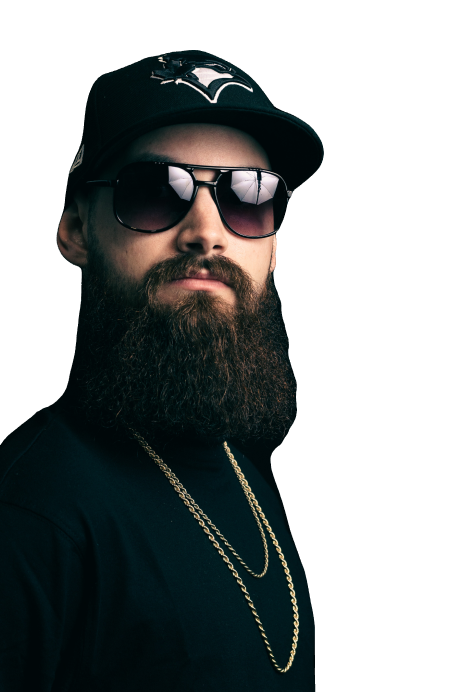
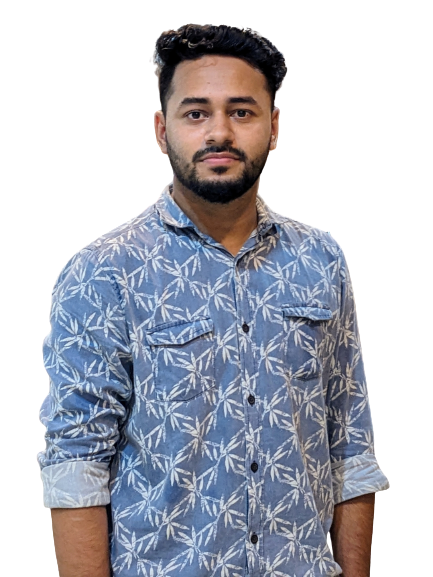
about section is done

diff --git a/src/components/About.js b/src/components/About.js
@@ -1,7 +1,76 @@
 import React from 'react';
+// count up
+import CountUp from 'react-countup';
+// intersection obserber hook
+import { useInView } from 'react-intersection-observer';
+// motion
+import { motion } from 'framer-motion';
+// varient
+import { fadeIn } from '../variants';
 
 const About = () => {
-  return <div className='section' id='about'>About</div>;
+  const [ref, inView] = useInView({
+    threshold: 0.5,
+  });
+  return <section className='section' id='about'>
+    <div className="container mx-auto">
+      <div className='flex flex-col gap-y-10 lg:flex-row lg:items-center lg:gap-x-20 lg:gap-y-0 h-screen'>
+        {/* img */}
+        <motion.div
+          variants={fadeIn('right', 0.3)}
+          initial='hidden'
+          whileInView={'show'}
+          viewport={{ once: false, amount: 0.3 }}
+          className='flex-1 bg-about  bg-contain bg-no-repeat h-[640px] mix-blend-lighten bg-top '></motion.div>
+        <motion.div
+        variants={fadeIn('left', 0.5)}
+        initial='hidden'
+        whileInView={'show'}
+        viewport={{ once: false, amount: 0.3 }}
+        className='flex-1'>
+          <h2 className='h2 text-accent'>About me</h2>
+          <h3 className='h3 mb-4'>
+            I'm a Freelancer Front-end developer with over 1 years of experience.
+
+          </h3>
+          <div className='flex gap-x-6 lg:gap-x-10 mb-12'>
+            <div>
+              <div className='text-[40px] font-tertiary text-gradient mb-2'>
+                <CountUp start={0} end={2} duration={4} />
+              </div>
+              <div className='font-primary text-sm tracking-[2px]'>
+                Years of <br />
+                Experience
+              </div>
+            </div>
+            <div>
+              <div className='text-[40px] font-tertiary text-gradient mb-2'>
+                <CountUp start={0} end={27} duration={4} />
+              </div>
+              <div className='font-primary text-sm tracking-[2px]'>
+                Projects <br />
+                Complete
+              </div>
+            </div>
+            <div>
+              <div className='text-[40px] font-tertiary text-gradient mb-2'>
+                <CountUp start={0} end={12} duration={4} />
+              </div>
+              <div className='font-primary text-sm tracking-[2px]'>
+                Language &<br />
+                Frameworks
+              </div>
+            </div>
+          </div>
+          <div className='flex gap-x-8 items-center'>
+            <button className='btn btn-lg'>Contact Me</button>
+            <a href="#" className='text-gradient btn-link'>My portfolio</a>
+          </div>
+        </motion.div>
+
+      </div>
+    </div>
+  </section>;
 };
 
 export default About;

diff --git a/src/components/Banner.js b/src/components/Banner.js
@@ -54,6 +54,7 @@ const Banner = () => {
             <button className='btn btn-lg'>Contact me</button>
             <a href="#" className='text-gradient btn-link ml-4'>My Portfolio</a>
           </motion.div>
+          {/* social links */}
           <motion.div
           variants={fadeIn('up',0.5)}
           initial='hidden'
@@ -71,6 +72,7 @@ const Banner = () => {
             </a>
           </motion.div>
         </div>
+        {/* here is mine picture */}
         <motion.div
         variants={fadeIn('down',0.7)}
         initial='hidden'
